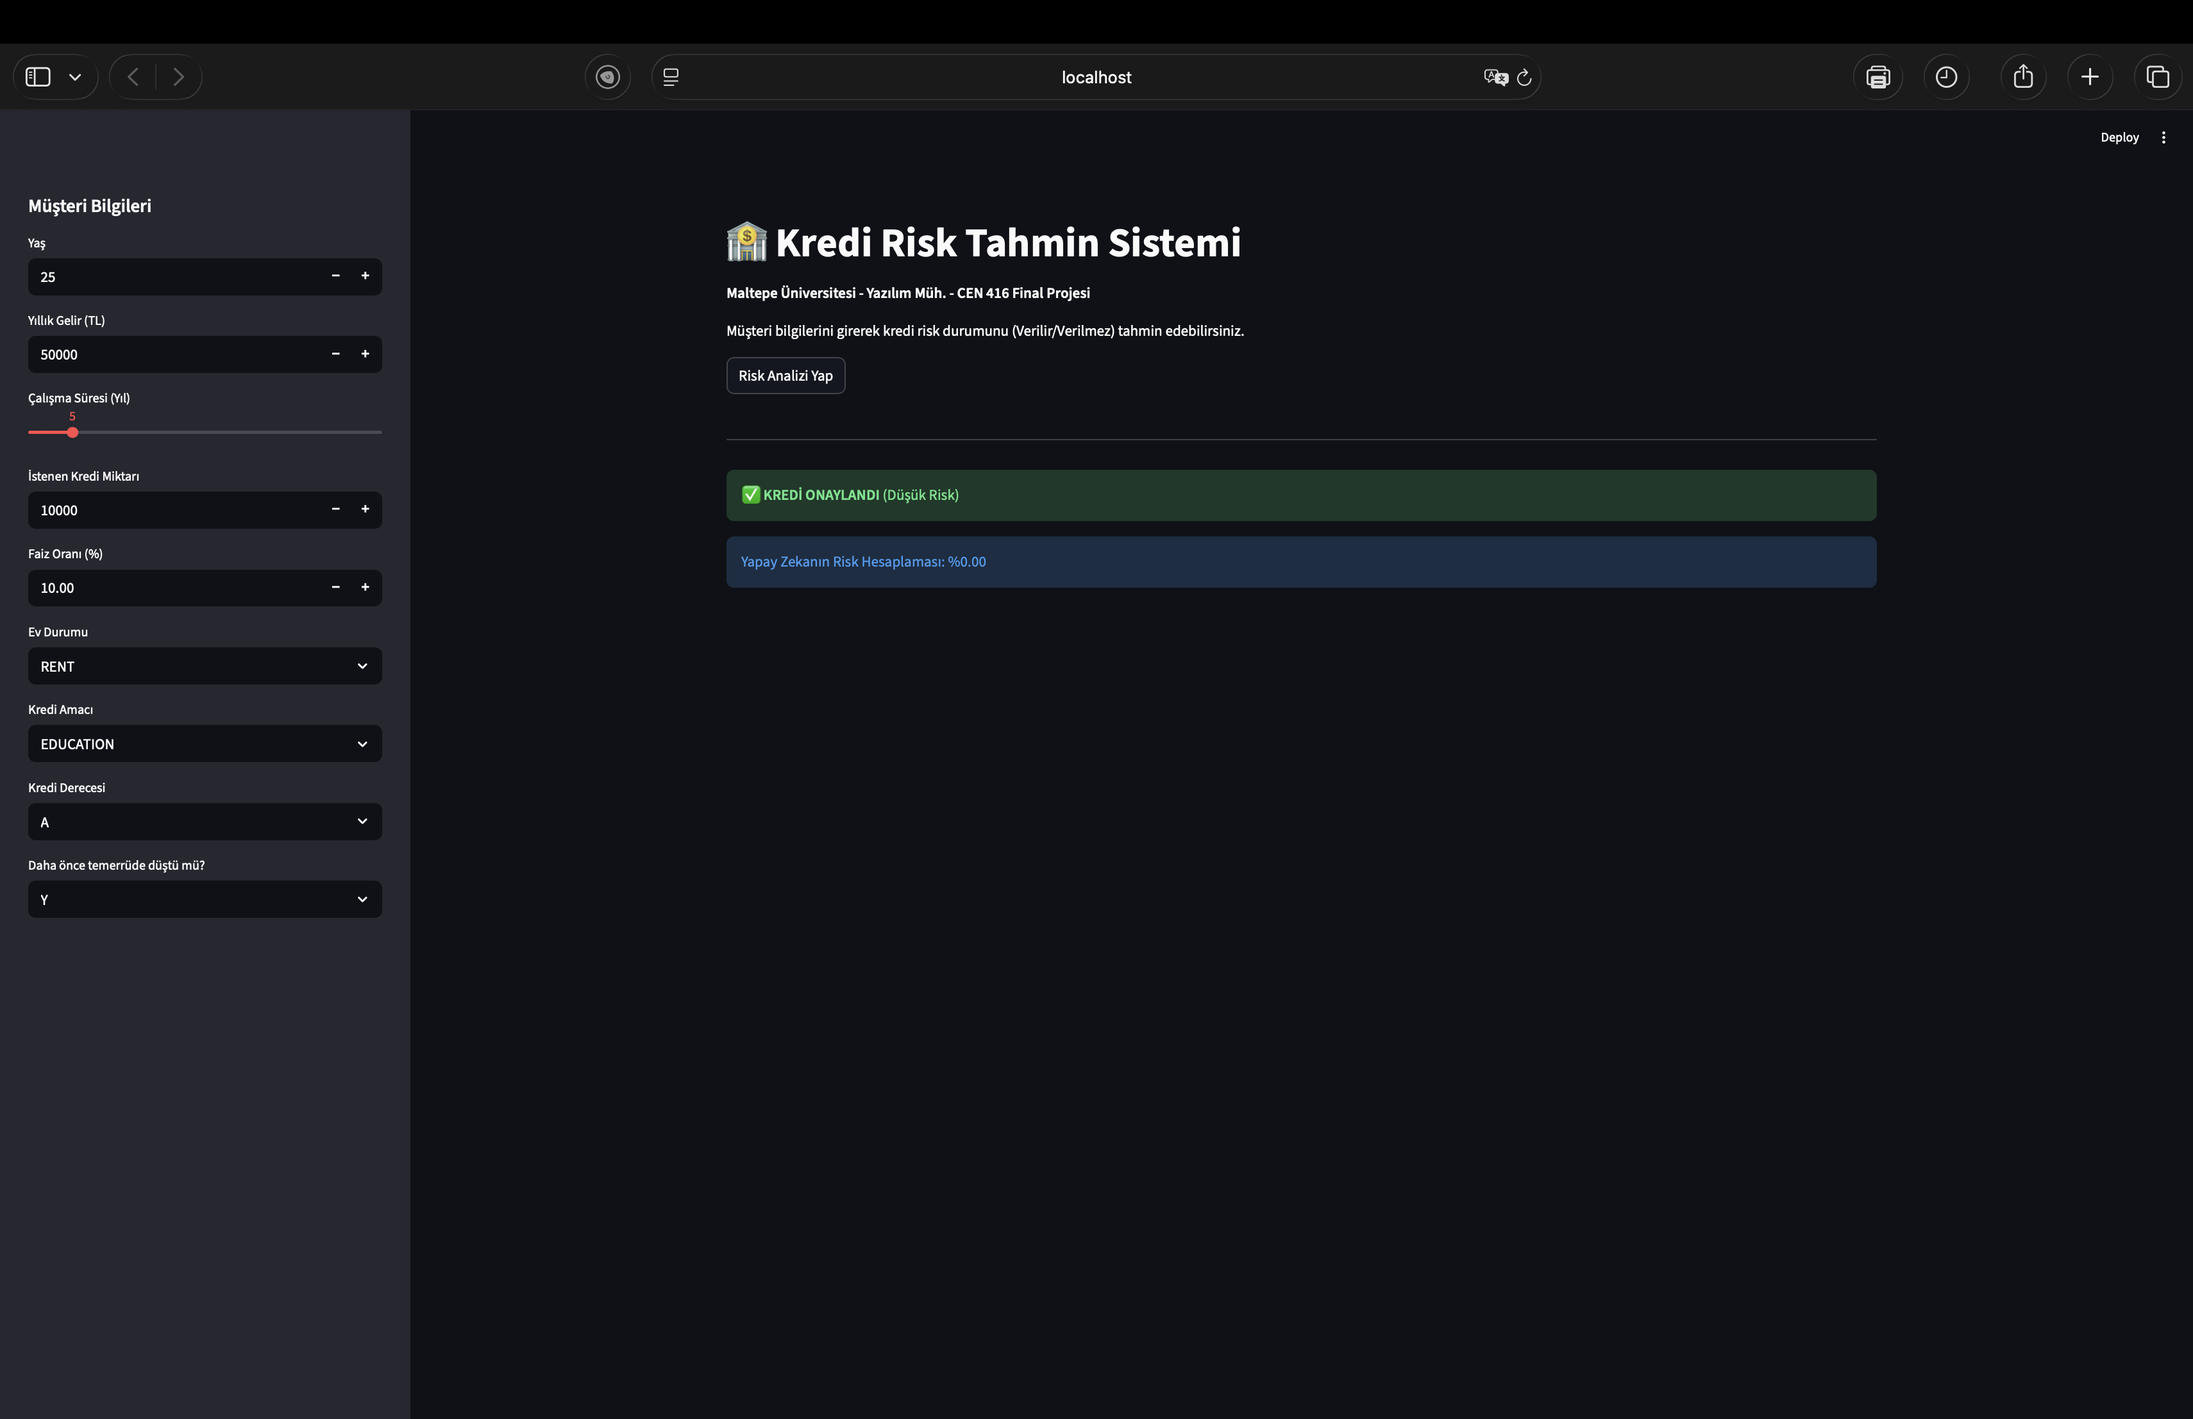
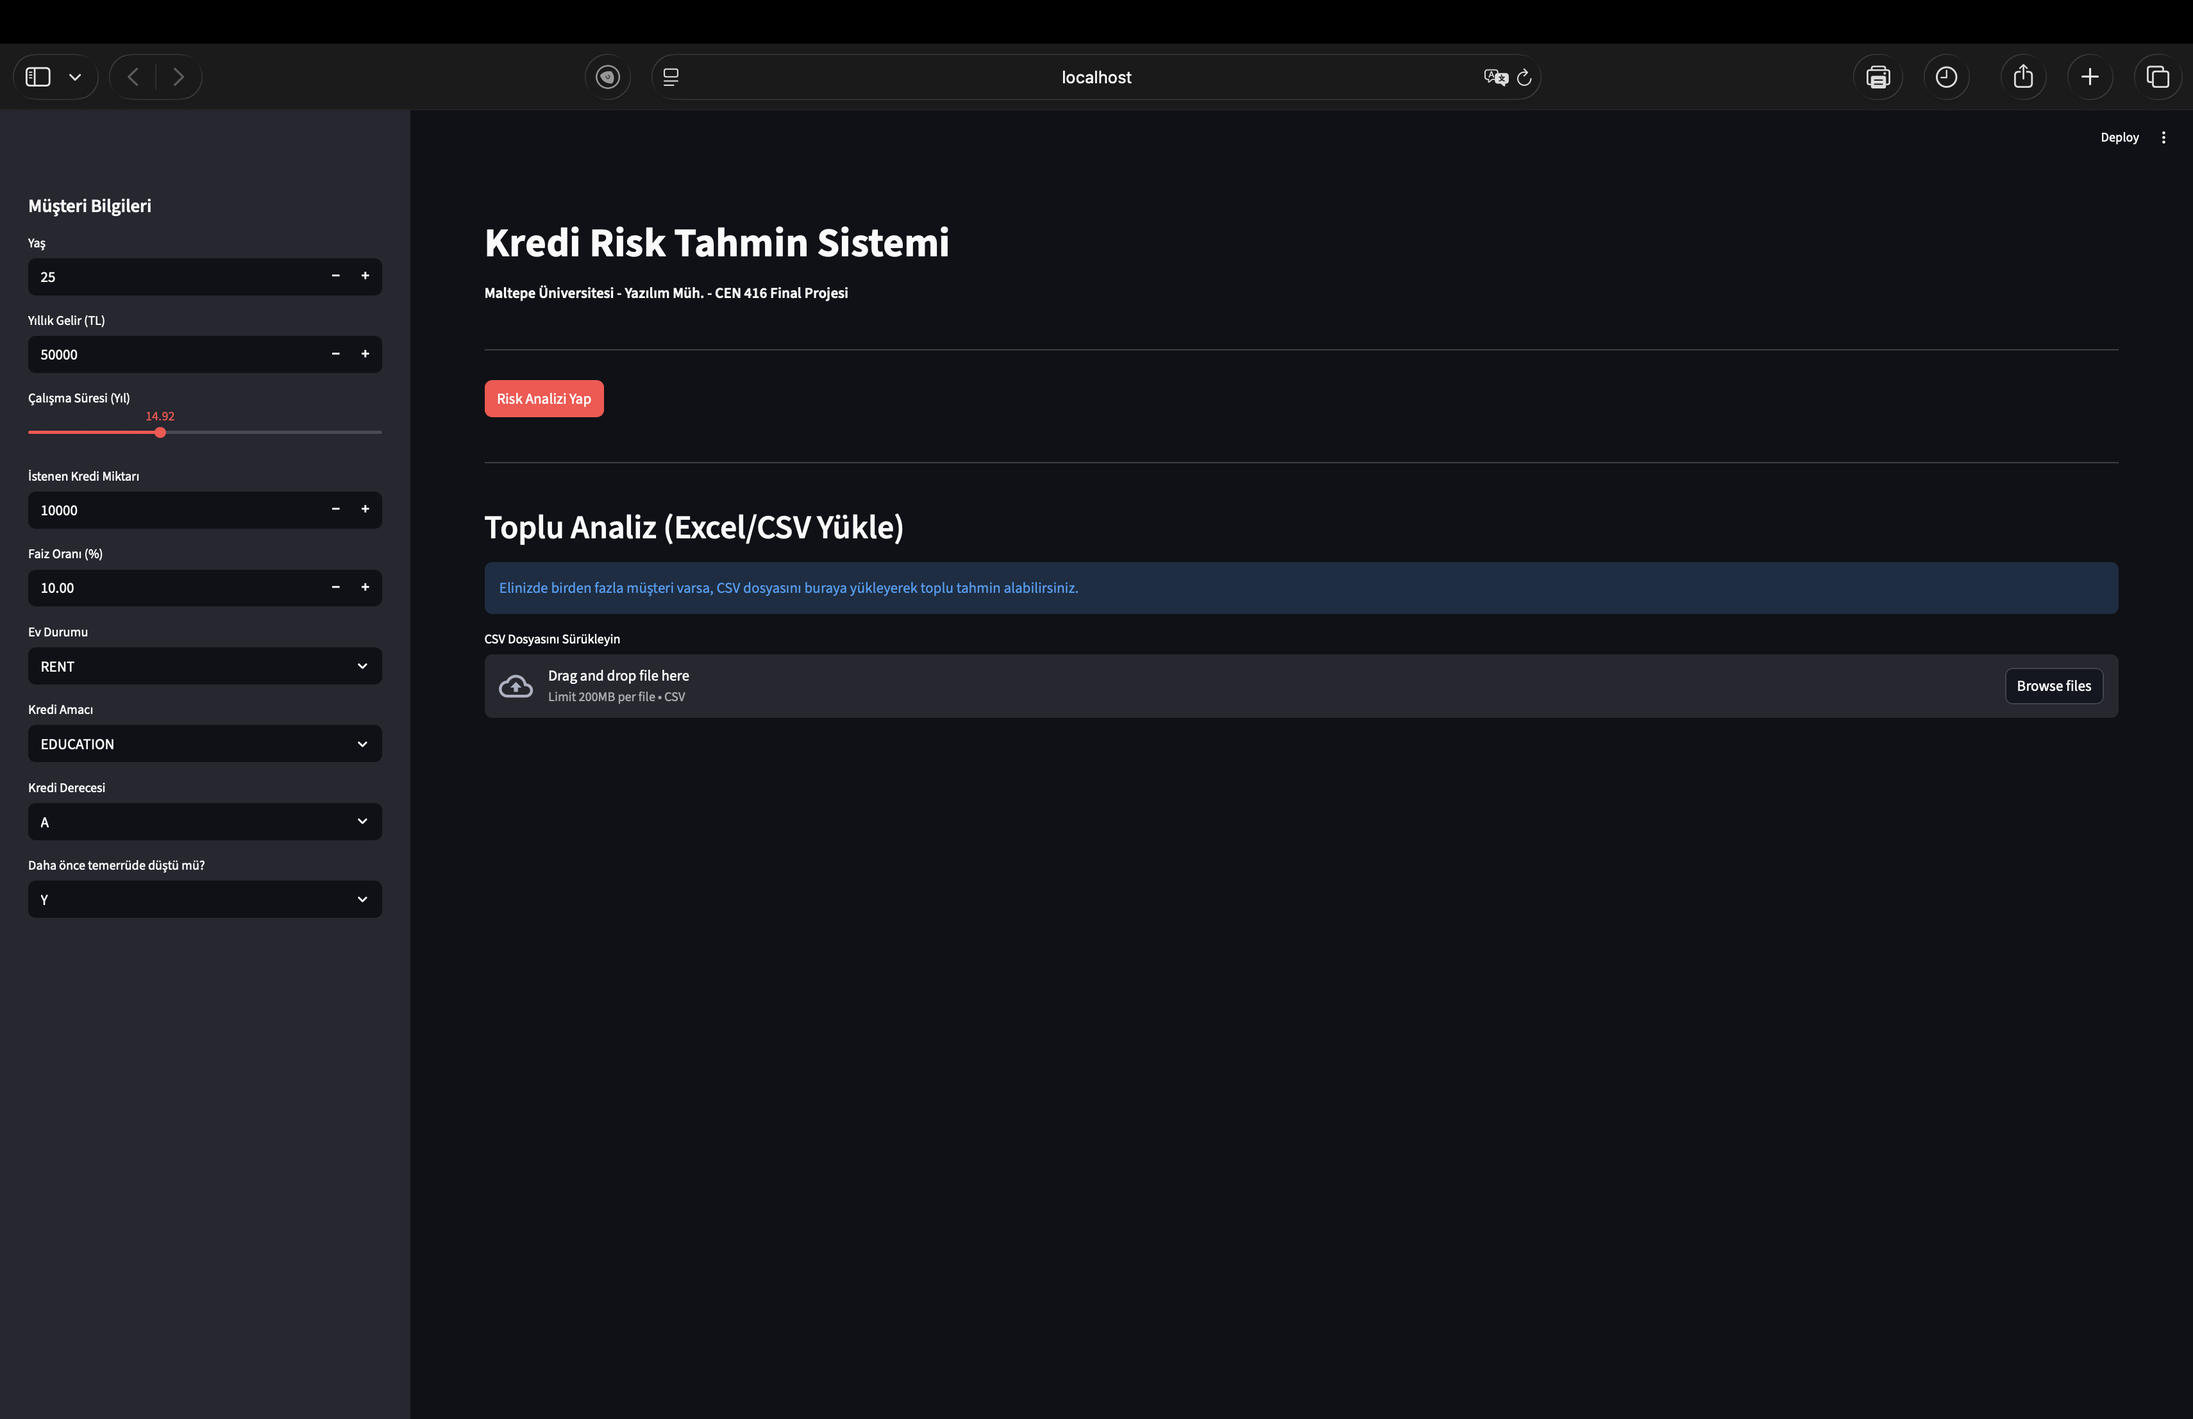
Update

Changed region(s): [[0.217, 0.3117, 0.9918, 0.5298], [0.217, 0.1558, 0.5579, 0.2805], [0.217, 0.2493, 0.2789, 0.3117]]

diff --git a/app.py b/app.py
@@ -3,34 +3,60 @@ import pandas as pd
 import joblib
 import numpy as np
 
+# --- 1. AYARLAR VE MODEL YÜKLEME ---
+st.set_page_config(page_title="Kredi Risk Analizi", page_icon="🏦", layout="wide")
+
 try:
     model = joblib.load('decision_tree_model.pkl')
     model_columns = joblib.load('model_columns.pkl')
 except:
-    st.error("Model dosyası bulunamadı! Lütfen önce proje.ipynb dosyasındaki kaydetme kodunu çalıştırın.")
+    st.error("Model dosyaları (pkl) bulunamadı! Lütfen önce proje.ipynb dosyasındaki kaydetme kodunu çalıştırın.")
     st.stop()
 
-st.set_page_config(page_title="Kredi Risk Analizi", page_icon="🏦")
+# İstatistikler için orijinal veriyi yüklemeye çalışalım
+# Bu, ortalamaları hesaplamak için gerekli.
+try:
+    df_orj = pd.read_csv('credit_risk_dataset.csv')
+    # Basit temizlik (Outlier temizliği - Projedeki gibi)
+    df_orj = df_orj[df_orj['person_age'] < 100]
+    df_orj = df_orj[df_orj['person_emp_length'] < 100]
+    
+    # Sadece Kredisi ONAYLANANLARIN (loan_status=0) ortalamalarını al
+    df_approved = df_orj[df_orj['loan_status'] == 0]
+    
+    avg_income = df_approved['person_income'].mean()
+    avg_loan_amnt = df_approved['loan_amnt'].mean()
+    avg_emp_length = df_approved['person_emp_length'].mean()
+    avg_int_rate = df_approved['loan_int_rate'].mean()
+    
+    stats_available = True
+except:
+    stats_available = False
+    st.warning("⚠ 'credit_risk_dataset.csv' dosyası bulunamadığı için karşılaştırmalı istatistikler gösterilemiyor.")
 
-st.title("🏦 Kredi Risk Tahmin Sistemi")
+# --- 2. ARAYÜZ BAŞLIĞI ---
+st.title("Kredi Risk Tahmin Sistemi")
 st.markdown("**Maltepe Üniversitesi - Yazılım Müh. - CEN 416 Final Projesi**")
-st.write("Müşteri bilgilerini girerek kredi risk durumunu (Verilir/Verilmez) tahmin edebilirsiniz.")
+st.markdown("---")
 
+# --- 3. SOL MENÜ (GİRDİLER) ---
 st.sidebar.header("Müşteri Bilgileri")
 
 age = st.sidebar.number_input("Yaş", min_value=18, max_value=100, value=25)
-income = st.sidebar.number_input("Yıllık Gelir (TL)", min_value=0, value=50000)
-emp_length = st.sidebar.slider("Çalışma Süresi (Yıl)", 0, 40, 5)
-loan_amount = st.sidebar.number_input("İstenen Kredi Miktarı", min_value=0, value=10000)
-int_rate = st.sidebar.number_input("Faiz Oranı (%)", min_value=0.0, value=10.0)
+income = st.sidebar.number_input("Yıllık Gelir (TL)", min_value=0, value=50000, step=1000)
+emp_length = st.sidebar.slider("Çalışma Süresi (Yıl)", 0.0, 40.0, 5.0)
+loan_amount = st.sidebar.number_input("İstenen Kredi Miktarı", min_value=0, value=10000, step=500)
+int_rate = st.sidebar.number_input("Faiz Oranı (%)", min_value=0.0, value=10.0, step=0.1)
 
 home_ownership = st.sidebar.selectbox("Ev Durumu", ['RENT', 'OWN', 'MORTGAGE', 'OTHER'])
 loan_intent = st.sidebar.selectbox("Kredi Amacı", ['EDUCATION', 'MEDICAL', 'VENTURE', 'PERSONAL', 'HOMEIMPROVEMENT', 'DEBTCONSOLIDATION'])
 loan_grade = st.sidebar.selectbox("Kredi Derecesi", ['A', 'B', 'C', 'D', 'E', 'F', 'G'])
 default_history = st.sidebar.selectbox("Daha önce temerrüde düştü mü?", ['Y', 'N'])
 
-if st.button("Risk Analizi Yap"):
+# --- 4. TAHMİN İŞLEMİ ---
+if st.button("Risk Analizi Yap", type="primary"):
     
+    # Veriyi DataFrame'e çevir
     input_data = pd.DataFrame({
         'person_age': [age],
         'person_income': [income],
@@ -38,25 +64,113 @@ if st.button("Risk Analizi Yap"):
         'loan_amnt': [loan_amount],
         'loan_int_rate': [int_rate],
         'loan_percent_income': [loan_amount / income if income > 0 else 0],
-        'cb_person_cred_hist_length': [2],
+        'cb_person_cred_hist_length': [2], # Varsayılan
         'person_home_ownership': [home_ownership],
         'loan_intent': [loan_intent],
         'loan_grade': [loan_grade],
         'cb_person_default_on_file': [default_history]
     })
 
-    input_data = pd.get_dummies(input_data)
+    # One-Hot Encoding ve Reindex
+    input_dummies = pd.get_dummies(input_data)
+    input_final = input_dummies.reindex(columns=model_columns, fill_value=0)
 
-    input_data = input_data.reindex(columns=model_columns, fill_value=0)
+    # Tahmin
+    prediction = model.predict(input_final)
+    probability = model.predict_proba(input_final)[0][1] 
 
-    prediction = model.predict(input_data)
-    probability = model.predict_proba(input_data)[0][1] 
-
+    # --- 5. SONUÇ GÖSTERİMİ ---
     st.divider()
-    if prediction[0] == 0:
-        st.success("✅ **KREDİ ONAYLANDI** (Düşük Risk)")
-        st.balloons()
-    else:
-        st.error("❌ **KREDİ REDDEDİLDİ** (Yüksek Risk)")
     
-    st.info(f"Yapay Zekanın Risk Hesaplaması: %{probability*100:.2f}")
+    col_res1, col_res2 = st.columns([2, 1])
+    
+    with col_res1:
+        if prediction[0] == 0:
+            st.success("**SONUÇ: KREDİ ONAYLANDI (Düşük Risk)**")
+            st.balloons()
+        else:
+            st.error("**SONUÇ: KREDİ REDDEDİLDİ (Yüksek Risk)**")
+            st.markdown(f"**Risk Skoru:** %{probability*100:.2f}")
+
+    # --- 6. NEDEN REDDEDİLDİ? / ORTALAMA KIYASLAMASI ---
+    if stats_available:
+        st.subheader("📊 Neden? - Kredisi Onaylananlar ile Karşılaştırma")
+        st.write("Aşağıdaki oklar, kredisi onaylanan ortalama bir müşteriye göre durumunuzu gösterir.")
+        
+        m1, m2, m3, m4 = st.columns(4)
+        
+        # Gelir Kıyaslaması (Yüksek olması iyi - Yeşil)
+        m1.metric(
+            label="Yıllık Gelir", 
+            value=f"{income:,.0f} TL", 
+            delta=f"{income - avg_income:,.0f} TL",
+            delta_color="normal" # Artı ise yeşil (iyi)
+        )
+        
+        # Kredi Miktarı Kıyaslaması (Düşük olması iyi - delta color inverse)
+        m2.metric(
+            label="Kredi Miktarı", 
+            value=f"{loan_amount:,.0f} TL", 
+            delta=f"{loan_amount - avg_loan_amnt:,.0f} TL",
+            delta_color="inverse" # Eksi ise yeşil (çünkü az borç iyidir)
+        )
+        
+        # Çalışma Süresi (Yüksek olması iyi)
+        m3.metric(
+            label="Çalışma Süresi", 
+            value=f"{emp_length} Yıl", 
+            delta=f"{emp_length - avg_emp_length:.1f} Yıl",
+            delta_color="normal"
+        )
+        
+        # Faiz Oranı (Düşük olması iyi)
+        m4.metric(
+            label="Faiz Oranı", 
+            value=f"%{int_rate}", 
+            delta=f"{int_rate - avg_int_rate:.2f}",
+            delta_color="inverse"
+        )
+        
+        st.caption(f"*Not: Kredisi onaylananların ortalama geliri {avg_income:,.0f} TL ve talep ettikleri ortalama kredi {avg_loan_amnt:,.0f} TL'dir.*")
+
+# --- 7. TOPLU ANALİZ (CSV YÜKLEME) ---
+st.markdown("---")
+st.header("Toplu Analiz (Excel/CSV Yükle)")
+st.info("Elinizde birden fazla müşteri varsa, CSV dosyasını buraya yükleyerek toplu tahmin alabilirsiniz.")
+
+uploaded_file = st.file_uploader("CSV Dosyasını Sürükleyin", type=["csv"])
+
+if uploaded_file is not None:
+    try:
+        # Dosyayı oku
+        df_upload = pd.read_csv(uploaded_file)
+        st.write("Yüklenen Veri (İlk 5 Satır):")
+        st.dataframe(df_upload.head())
+        
+        if st.button("Toplu Analizi Başlat"):
+            with st.spinner('Yapay Zeka düşünüyor...'):
+                # İşleme
+                df_proc = pd.get_dummies(df_upload)
+                df_proc = df_proc.reindex(columns=model_columns, fill_value=0)
+                
+                # Tahmin
+                preds = model.predict(df_proc)
+                probs = model.predict_proba(df_proc)[:, 1]
+                
+                # Sonuçları ekle
+                df_upload['Tahmin'] = ["RED" if x == 1 else "ONAY" for x in preds]
+                df_upload['Risk_Skoru'] = probs
+                
+                st.success("İşlem Tamamlandı!")
+                st.dataframe(df_upload)
+                
+                # İndirme Butonu
+                csv_data = df_upload.to_csv(index=False).encode('utf-8')
+                st.download_button(
+                    label="Sonuçları İndir (CSV)",
+                    data=csv_data,
+                    file_name='kredi_tahmin_sonuclari.csv',
+                    mime='text/csv',
+                )
+    except Exception as e:
+        st.error(f"Bir hata oluştu: {e}")

diff --git a/README.md b/README.md
@@ -1,6 +1,6 @@
-# Credit Risk Analysis
+# Credit Risk Analysis System
 
-This project is a **Machine Learning** model designed to predict credit repayment risk by analyzing the demographic and financial data of bank customers. It includes a comprehensive data analysis notebook and an interactive **Web Interface** for real-time predictions.
+This project is a comprehensive **Machine Learning** solution designed to predict credit repayment risk. Unlike standard classification models, this system includes an **Interactive Dashboard** that provides **statistical reasoning** for rejections and supports **Batch Processing** for financial institutions.
 
 ## Course & Student Information
 
@@ -15,97 +15,66 @@ This project is a **Machine Learning** model designed to predict credit repaymen
 
 ---
 
-## Project Overview
+## Key Features (Why this project is unique?)
 
-Developed within the scope of the Data Mining course, this project aims to classify credit applications as **Approved** or **Denied** (Risk/No Risk) using the **Decision Tree** algorithm.
+This project goes beyond simple prediction by implementing **Explainable AI (XAI)** concepts and practical software engineering principles:
 
-The project implements theoretical concepts covered in the **Chapter 2 (Data Preprocessing)** and **Chapter 3 (Classification)** lecture notes.
-
-### Objective
-To create a decision support system that enables financial institutions to minimize credit default risk based on customer data (e.g., Age, Income, Employment Length, Home Ownership Status).
-
----
-
-## 📂 Project Structure & File Descriptions
-
-Understanding the key files in this repository:
-
-* **`project.ipynb`**: The main Jupyter Notebook containing the Data Mining pipeline: Data Cleaning, EDA (Exploratory Data Analysis), Visualization, Model Training, and Evaluation.
-* **`app.py`**: The source code for the interactive Web Application built with **Streamlit**. It allows users to input new customer data and get a risk prediction instantly.
-* **`decision_tree_model.pkl`**: The trained Decision Tree model serialized using `joblib`. This file allows the web application to use the pre-trained AI without retraining it every time.
-* **`model_columns.pkl`**: Stores the list of column names used during training. This ensures that the user input in the web app matches the exact format required by the model (especially for One-Hot Encoded features).
+1.  **🤖 AI-Powered Risk Prediction:** Uses a trained **Decision Tree Classifier** to assess creditworthiness instantly.
+2.  **📊 Comparative Statistical Analysis:** It doesn't just say "No". It explains **why**. The system compares the applicant's data (Income, Loan Amount, Interest Rate) with the average of *approved customers*, highlighting the specific reasons for rejection.
+3.  **📂 Batch Processing (CSV Upload):** Designed for real-world banking scenarios. Users can upload a CSV file containing thousands of applicants, and the system processes them in bulk, exporting the results as a downloadable file.
+4.  **📉 Real-time Visualization:** Dynamic charts and metrics (Green/Red indicators) provide immediate visual feedback.
 
 ---
 
-## Data & Preprocessing
+## Project Structure
 
-**Dataset Used:** Credit Risk Dataset
-* **Input Variables (Features):** Age, Income, Home Ownership, Loan Amount, Interest Rate, Loan Intent, etc.
-* **Target Variable:** `loan_status` (0: Non-Default/Paid, 1: Default/Risk)
-
-**Preprocessing Steps applied (based on Chapter 2):**
-1.  **Data Cleaning:** Removed outliers (e.g., Age > 100, Employment Length > 100 years).
-2.  **Imputation:** Missing values in interest rates and employment length were filled with the mean value.
-3.  **Encoding:** Categorical variables like `RENT`, `OWN`, and `EDUCATION` were converted into numerical format using **One-Hot Encoding**.
+* **\`project.ipynb\`**: The Data Mining pipeline (Data Cleaning, Outlier Removal, EDA, Model Training).
+* **\`app.py\`**: The source code for the **Streamlit Web Application**.
+* **\`decision_tree_model.pkl\`**: The serialized Machine Learning model.
+* **\`model_columns.pkl\`**: Ensures exact feature matching between the training set and the web app inputs.
+* **\`credit_risk_dataset.csv\`**: The dataset used for training and calculating statistical averages.
 
 ---
 
-## Modeling
+## Data & Methodology
 
-Since the goal is to predict a category, the **Decision Tree Classifier** was selected as the primary model.
+**Dataset:** Credit Risk Dataset (Source: Kaggle)
+* **Target:** \`loan_status\` (0: Approved, 1: Risk/Default)
+* **Key Features:** Age, Income, Employment Length, Loan Amount, Interest Rate, Home Ownership, etc.
 
-* **Train/Test Split:** 80% Training, 20% Testing.
-* **Libraries:** Python, Pandas, Scikit-learn, Matplotlib, Seaborn, Streamlit.
+**Preprocessing (Chapter 2):**
+* Outlier Detection (Removed unrealistic ages > 100).
+* Imputation (Filled missing employment years and interest rates).
+* One-Hot Encoding (Converted categorical data to numeric).
 
----
-
-## Results
-
-Performance on the Test Set:
-
-* **Accuracy:** **88%**
-* **Evaluation:** The model is highly effective at identifying non-risky customers with a success rate of over 90%.
-
-**Visualizations:**
-* **Confusion Matrix:** A detailed heatmap showing correct and incorrect predictions is included in the project files.
-* **Feature Importance:** The model identified the following as the most critical factors for credit approval:
-    1.  Customer Income (`person_income`)
-    2.  Loan Amount (`loan_amnt`)
-    3.  Interest Rate (`loan_int_rate`)
+**Modeling (Chapter 3):**
+* **Algorithm:** Decision Tree Classifier.
+* **Performance:** **88% Accuracy** on the Test Set.
+* **Validation:** 80-20 Train-Test Split validation.
 
 ---
 
 ## Installation & Usage
 
-To run this project locally (both the notebook and the web app):
+To run the full dashboard locally:
 
 ### 1. Clone the Repository
-```bash
-git clone [https://github.com/yousurff/credit-risk-analysis.git](https://github.com/yousurff/credit-risk-analysis.git)
+\`\`\`bash
+git clone https://github.com/yousurff/credit-risk-analysis.git
 cd credit-risk-analysis
-```
+\`\`\`
 
-### 2. Install Required Libraries
-
-You need streamlit and joblib in addition to standard data science libraries:
-```bash
+### 2. Install Dependencies
+\`\`\`bash
 pip install pandas numpy matplotlib seaborn scikit-learn streamlit joblib
-```
+\`\`\`
 
-### 3. Run the Web Interface (App)
-
+### 3. Run the Application
+\`\`\`bash
+streamlit run app.py
+\`\`\`
+*The web interface will open automatically in your browser.*
 ![Streamlit Arayüzü](screenshot.png)
 
-To start the interactive prediction system:
-```bash
-streamlit run app.py
-```
-Note: If you encounter a PATH error, try using: python3 -m streamlit run app.py
-
-### 4. Run the Analysis Notebook
-
-To view the codes, charts, and training process: Open project.ipynb in VS Code or Jupyter Notebook.
-
 ---
-
-This project was prepared as the Final Assignment for CEN 416.
+*This project was prepared as the Final Assignment for CEN 416.*
